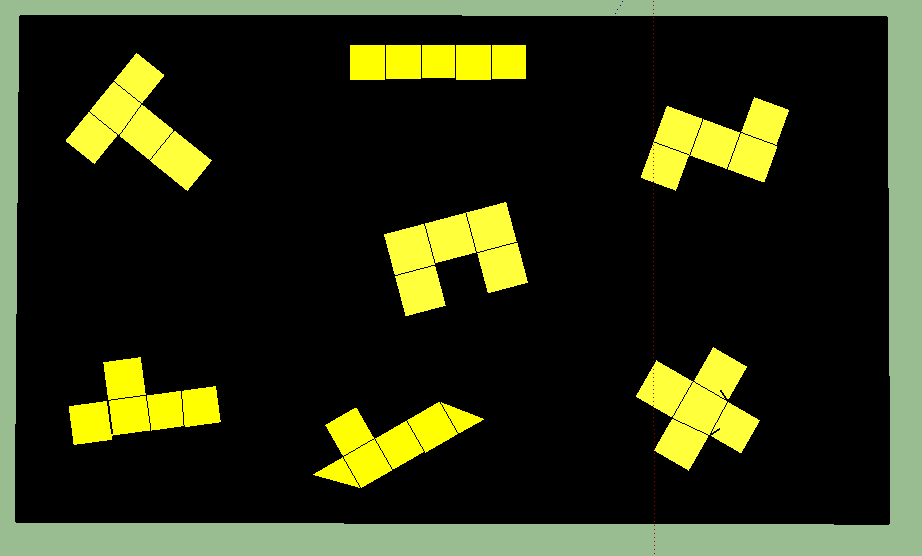
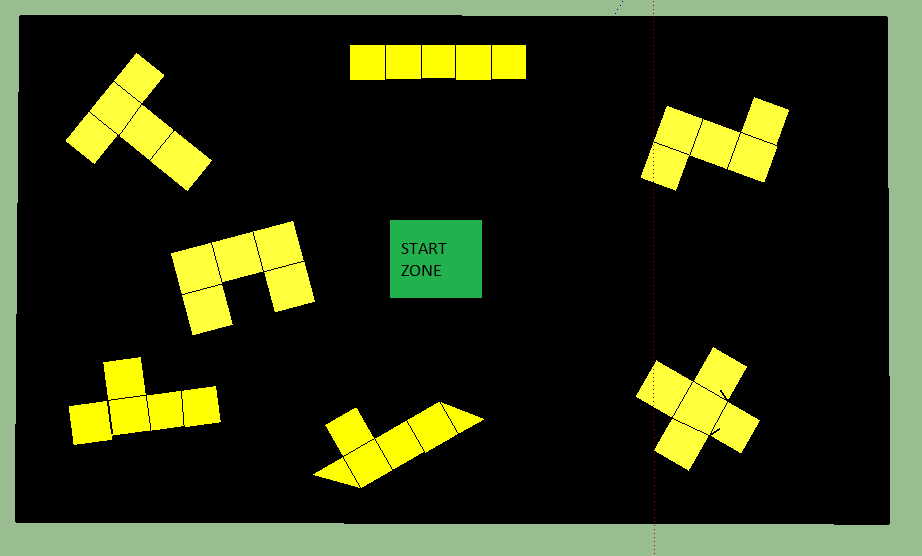
modified the arena (#73)

Changed region(s): [[0.3948, 0.3669, 0.577, 0.5809], [0.1822, 0.3975, 0.3644, 0.6115]]

diff --git a/_events/fortress.md b/_events/fortress.md
@@ -77,7 +77,7 @@ Build an image processing robot that can recognise useful patterns by pattern re
 
     * Round 1: **1**
 
-    * Round 2: **2**
+    * Round 2: **1**
 
 * Maximum Timeouts:
 
@@ -90,6 +90,8 @@ Build an image processing robot that can recognise useful patterns by pattern re
 * Restarts will be given only for technical fault in the robot
 
 * Thresholding time of **15 minutes** will be given in each round before the run starts.
+
+* The robot has to begin its run from the **START ZONE** marked in the center of the arena.
 
 **Robot Specifications:**
 
